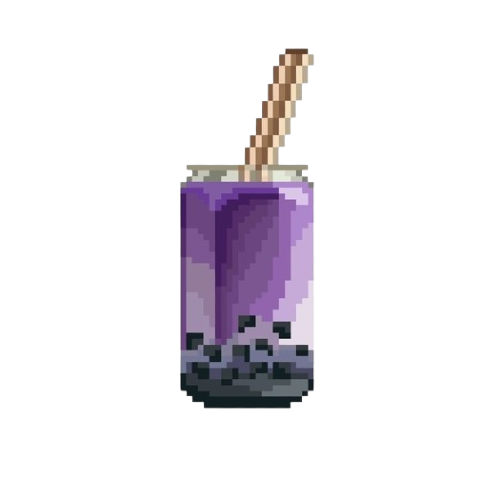
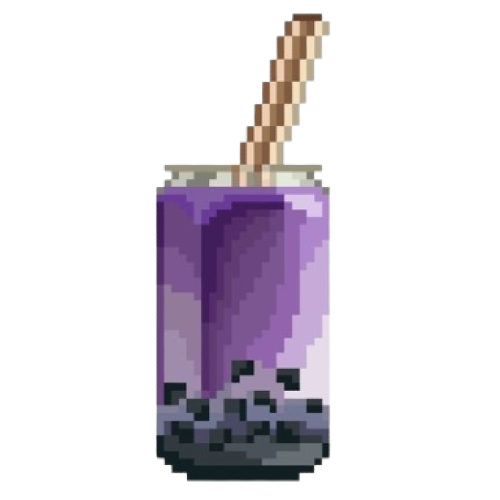
finalized animation of Kuroo companion

Changed region(s): [[0.3, 0.0, 0.66, 0.99]]

diff --git a/public/js/drag.js b/public/js/drag.js
@@ -278,36 +278,213 @@ document.addEventListener('DOMContentLoaded', () => {
         }
     }
 
-    // 7. Kuroo the Cat Companion Interactions
-    const kurooSprite = document.getElementById('kuroo-sprite');
-    const catStatus = document.querySelector('.cat-status');
+    // ==========================================
+    // 7. THE ALIVE CAT: KUROO (GIF States & Reactions)
+    // ==========================================
+    const kurooMascot = document.getElementById('kuroo-mascot');
+    const catInteractionModal = document.getElementById('cat-companion-window');
+    const catStatus = document.getElementById('cat-status');
     const feedBtn = document.getElementById('feed-cat-btn');
     const petBtn = document.getElementById('pet-cat-btn');
 
-    const kurooQuotes = [
-        "Kuroo is purring softly... (๑ت๑)♡",
-        "Kuroo is judging your code architecture. 🐈⬛",
-        "Kuroo is dreaming of fish shaped pastries.",
-        "Kuroo knocked a pastel pen off the desk. Oops!",
-        "Kuroo says: Stay cozy and keep brewing code! ☕"
-    ];
+    let kurooState = 'idle';
+    let kurooWanderInterval;
 
-    if (kurooSprite && catStatus) {
-        kurooSprite.onclick = () => {
-            const randomMsg = kurooQuotes[Math.floor(Math.random() * kurooQuotes.length)];
-            catStatus.textContent = `"${randomMsg}"`;
-        };
+    function setKurooAnimation(className) {
+        kurooMascot.classList.remove(
+            'kuroo-idle', 'kuroo-sit', 'kuroo-walking-left',
+            'kuroo-walking-right', 'kuroo-sleeping', 'kuroo-eating', 'kuroo-meowing'
+        );
+        kurooMascot.classList.add(className);
     }
 
-    if (feedBtn && catStatus) {
-        feedBtn.onclick = () => {
-            catStatus.textContent = `"Nom nom nom! Kuroo loves the treat! 🐟✨"`;
-        };
+    // Safe function to pop up floating reaction emojis above Kuroo
+    function showKurooReaction(emojiSymbol) {
+        if (!kurooMascot) return;
+
+        const reaction = document.createElement('div');
+        reaction.className = 'kuroo-reaction';
+        reaction.textContent = emojiSymbol;
+
+        // Use safe fallbacks if getBoundingClientRect returns 0
+        const currentLeft = parseFloat(kurooMascot.style.left) || window.innerWidth / 2;
+        const currentTop = parseFloat(kurooMascot.style.top) || window.innerHeight / 2;
+
+        reaction.style.left = (currentLeft + 32) + 'px';
+        reaction.style.top = (currentTop - 20) + 'px';
+
+        document.body.appendChild(reaction);
+
+        setTimeout(() => {
+            reaction.remove();
+        }, 1200);
     }
 
-    if (petBtn && catStatus) {
-        petBtn.onclick = () => {
-            catStatus.textContent = `"Purrrrr... Kuroo leans into your hand. 🐾💖"`;
-        };
+    if (kurooMascot && catInteractionModal) {
+
+        if (!kurooMascot.style.left) {
+            kurooMascot.style.position = 'fixed';
+            kurooMascot.style.left = (window.innerWidth / 2 - 48) + 'px';
+            kurooMascot.style.top = (window.innerHeight / 2 - 48) + 'px';
+        }
+
+        // --- 8.1 INTERACTION: Click on Cat ---
+        kurooMascot.addEventListener('click', (e) => {
+            if (kurooState === 'beingDrag') return;
+            e.stopPropagation();
+            catInteractionModal.style.setProperty('display', 'flex', 'important');
+            bringToFront(catInteractionModal);
+
+            setKurooAnimation('kuroo-meowing');
+            showKurooReaction('🐾');
+
+            if (kurooState === 'sleeping') {
+                catStatus.textContent = '"Kuroo was sleeping, but you woke him up! 🐈⬛"';
+            } else {
+                catStatus.textContent = '"Kuroo meows back at you! 🐾"';
+            }
+        });
+
+        // --- 8.2 MODAL BUTTONS (Pet/Feed) ---
+        const kurooQuotes = [
+            "Kuroo is purring softly... (๑ت๑)♡",
+            "Kuroo knocked a pastel pen off the desk. Oops!",
+            "Kuroo says: Stay cozy and keep brewing code! ☕"
+        ];
+
+        if (feedBtn) {
+            feedBtn.onclick = () => {
+                kurooState = 'eating';
+                setKurooAnimation('kuroo-eating');
+                showKurooReaction('🐟');
+                catStatus.textContent = `"Nom nom nom! Kuroo loves the treat! 🐟✨"`;
+
+                setTimeout(() => {
+                    if (kurooState === 'eating') {
+                        kurooState = 'idle';
+                        setKurooAnimation('kuroo-idle');
+                    }
+                }, 3000);
+            };
+        }
+
+        if (petBtn) {
+            petBtn.onclick = () => {
+                const randomMsg = kurooQuotes[Math.floor(Math.random() * kurooQuotes.length)];
+                setKurooAnimation('kuroo-sit');
+                showKurooReaction('💕'); // Hearts float up when petted!
+                catStatus.textContent = `"${randomMsg}"`;
+            };
+        }
+
+        // --- 8.3 DRAGGING LOGIC ---
+        let isDraggingCat = false;
+        let catStartX, catStartY, catInitialLeft, catInitialTop;
+
+        kurooMascot.addEventListener('mousedown', (e) => {
+            isDraggingCat = true;
+            kurooState = 'beingDrag';
+            setKurooAnimation('kuroo-idle');
+            showKurooReaction('✨');
+            clearInterval(kurooWanderInterval);
+
+            // Turn off walking transition so he tracks the mouse instantly
+            kurooMascot.style.transition = 'none';
+
+            catStartX = e.clientX;
+            catStartY = e.clientY;
+
+            catInitialLeft = parseFloat(kurooMascot.style.left) || 100;
+            catInitialTop = parseFloat(kurooMascot.style.top) || 100;
+
+            kurooMascot.style.position = 'fixed';
+            kurooMascot.style.margin = '0';
+            kurooMascot.style.left = catInitialLeft + 'px';
+            kurooMascot.style.top = catInitialTop + 'px';
+
+            bringToFront(kurooMascot);
+            e.stopPropagation();
+        });
+
+        document.addEventListener('mousemove', (e) => {
+            if (!isDraggingCat) return;
+            const dx = e.clientX - catStartX;
+            const dy = e.clientY - catStartY;
+
+            kurooMascot.style.left = (catInitialLeft + dx) + 'px';
+            kurooMascot.style.top = (catInitialTop + dy) + 'px';
+        });
+
+        document.addEventListener('mouseup', () => {
+            if (isDraggingCat) {
+                isDraggingCat = false;
+                kurooState = 'idle';
+                setKurooAnimation('kuroo-idle');
+                startKurooRoaming();
+            }
+        });
+
+        // --- 8.4 AUTONOMOUS ROAMING LOGIC ---
+        function startKurooRoaming() {
+            if (kurooWanderInterval) clearInterval(kurooWanderInterval);
+
+            kurooWanderInterval = setInterval(() => {
+                if (kurooState === 'beingDrag' || activeWindow) return;
+
+                const actionRoll = Math.random();
+
+                if (actionRoll < 0.3) {
+                    // 1. NAP ACTION
+                    kurooState = 'sleeping';
+                    setKurooAnimation('kuroo-sleeping');
+                    showKurooReaction('💤'); // Zzz pops up when he falls asleep
+                } else if (actionRoll < 0.6) {
+                    // 2. SIT ACTION
+                    kurooState = 'idle';
+                    setKurooAnimation('kuroo-sit');
+                } else {
+                    // 3. WALK ACTION
+                    roamToRandomLocation();
+                }
+
+            }, 10000);
+        }
+
+        function roamToRandomLocation() {
+            kurooState = 'walking';
+
+            const padding = 50;
+            const maxX = window.innerWidth - padding;
+            const maxY = window.innerHeight - padding;
+            const randomX = Math.random() * (maxX - padding) + padding;
+            const randomY = Math.random() * (maxY - padding) + padding;
+
+            const currentX = parseFloat(kurooMascot.style.left) || window.innerWidth / 2;
+
+            if (randomX < currentX) {
+                setKurooAnimation('kuroo-walking-left');
+            } else {
+                setKurooAnimation('kuroo-walking-right');
+            }
+
+            kurooMascot.style.left = randomX + 'px';
+            kurooMascot.style.top = randomY + 'px';
+
+            const dx = randomX - currentX;
+            const dy = randomY - (parseFloat(kurooMascot.style.top) || window.innerHeight / 2);
+            const distance = Math.sqrt(dx * dx + dy * dy);
+            const walkDuration = Math.max(distance * 5, 2000);
+
+            kurooMascot.style.transition = `left ${walkDuration}ms linear, top ${walkDuration}ms linear`;
+
+            setTimeout(() => {
+                if (kurooState === 'walking') {
+                    kurooState = 'idle';
+                    setKurooAnimation('kuroo-idle');
+                }
+            }, walkDuration);
+        }
+
+        startKurooRoaming();
     }
 });

diff --git a/public/css/kuroo.css b/public/css/kuroo.css
@@ -1,34 +1,82 @@
 /* ==========================================
-   KUROO THE CAT COMPANION WINDOW
+   KUROO THE CAFE MASCOT - INDIVIDUAL GIFS
    ========================================== */
-.cat-window {
-    background: var(--window-bg, #fff);
-    border: 2px solid var(--border-dark, #111);
-    box-shadow: 6px 6px 0px var(--border-dark, #111);
-    width: 320px;
-    max-width: 90vw;
-    position: fixed;
-    top: 100px;
-    right: 50px;
-    z-index: 1000;
-}
 
-.cat-window .title-bar {
-    background: var(--border-dark, #111);
-    color: white;
-    padding: 6px 12px;
+#cat-companion-window {
+    width: 320px !important;
+    min-width: 320px !important;
+    max-width: 320px !important;
     display: flex;
-    justify-content: space-between;
-    align-items: center;
-    font-size: 13px;
-    font-weight: bold;
-    cursor: move;
+    flex-direction: column;
+    box-sizing: border-box;
 }
 
-#kuroo-sprite {
-    transition: transform 0.15s ease;
+#cat-companion-window .window-content {
+    box-sizing: border-box;
+    width: 100%;
 }
 
-#kuroo-sprite:active {
-    transform: scale(0.9);
+#kuroo-mascot {
+    position: fixed;
+    z-index: 9998;
+    cursor: pointer;
+    width: 150px;
+    height: 150px;
+    background-size: contain;
+    background-repeat: no-repeat;
+    background-position: center;
+    image-rendering: pixelated;
+    transition: left 0s linear, top 0s linear;
+}
+
+/* 2. ANIMATION STATES & GIF BINDINGS */
+.kuroo-idle {
+    background-image: url('/images/kuroo-animations/idle.gif');
+}
+
+.kuroo-sit {
+    background-image: url('/images/kuroo-animations/sit-kuroo.gif');
+}
+
+.kuroo-walking-left {
+    background-image: url('/images/kuroo-animations/run.gif');
+}
+
+.kuroo-walking-right {
+    background-image: url('/images/kuroo-animations/run.gif');
+    transform: scaleX(-1);
+    /* Flip horizontally when walking right */
+}
+
+.kuroo-sleeping {
+    background-image: url('/images/kuroo-animations/sleep-kuroo.gif');
+}
+
+.kuroo-eating {
+    background-image: url('/images/kuroo-animations/eat-kuroo.gif');
+}
+
+.kuroo-meowing {
+    background-image: url('/images/kuroo-animations/meow-kuroo.gif');
+}
+
+/* Floating Reaction Emojis */
+.kuroo-reaction {
+    position: fixed;
+    font-size: 1.2rem;
+    pointer-events: none;
+    z-index: 9999;
+    animation: floatUpAndFade 1.2s ease-out forwards;
+}
+
+@keyframes floatUpAndFade {
+    0% {
+        opacity: 1;
+        transform: translateY(0) scale(0.8);
+    }
+
+    100% {
+        opacity: 0;
+        transform: translateY(-40px) scale(1.2);
+    }
 }

diff --git a/public/css/music-player.css b/public/css/music-player.css
@@ -51,7 +51,8 @@
    ========================================== */
 .player-controls {
     display: flex;
-    gap: 6px;
+    gap: 10px;
+    margin: 0 auto;
 }
 
 .retro-btn-sm {
@@ -63,6 +64,11 @@
     padding: 4px 8px;
     cursor: pointer;
     flex: 1;
+}
+
+.retro-btn-sm:hover {
+    background: #ff80ab;
+    transform: scale(1.05);
 }
 
 .retro-btn-sm:active {

diff --git a/public/css/menu.css b/public/css/menu.css
@@ -79,6 +79,11 @@
     box-shadow: 1px 1px 0px #111;
 }
 
+.active-treat-btn:hover {
+    color: #111;
+    background-color: #fff;
+}
+
 /* ==========================================
    3. CAROUSEL PREVIEW DISPLAY
    ========================================== */
